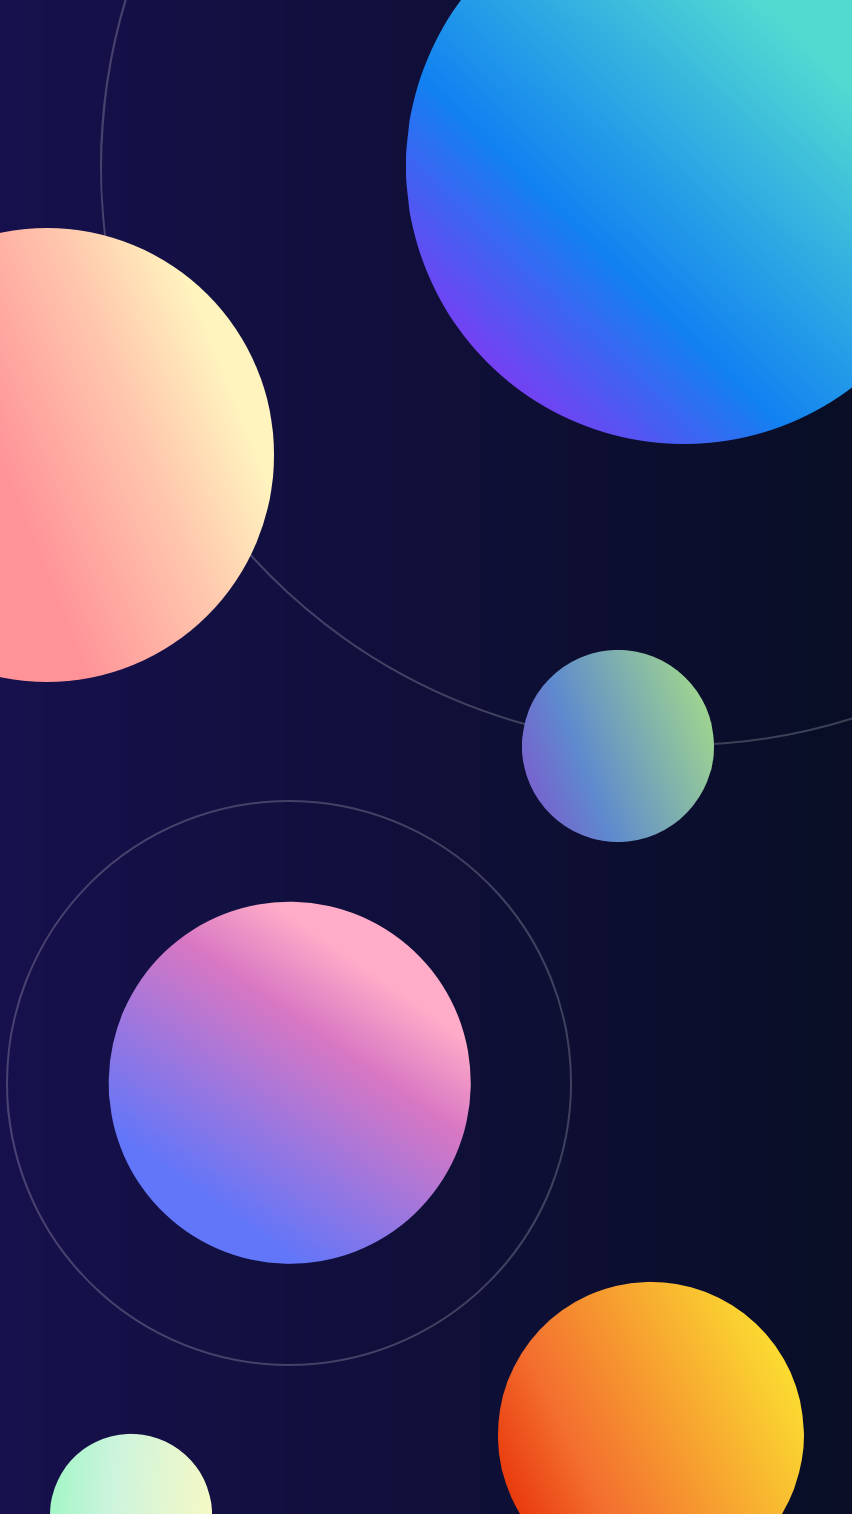
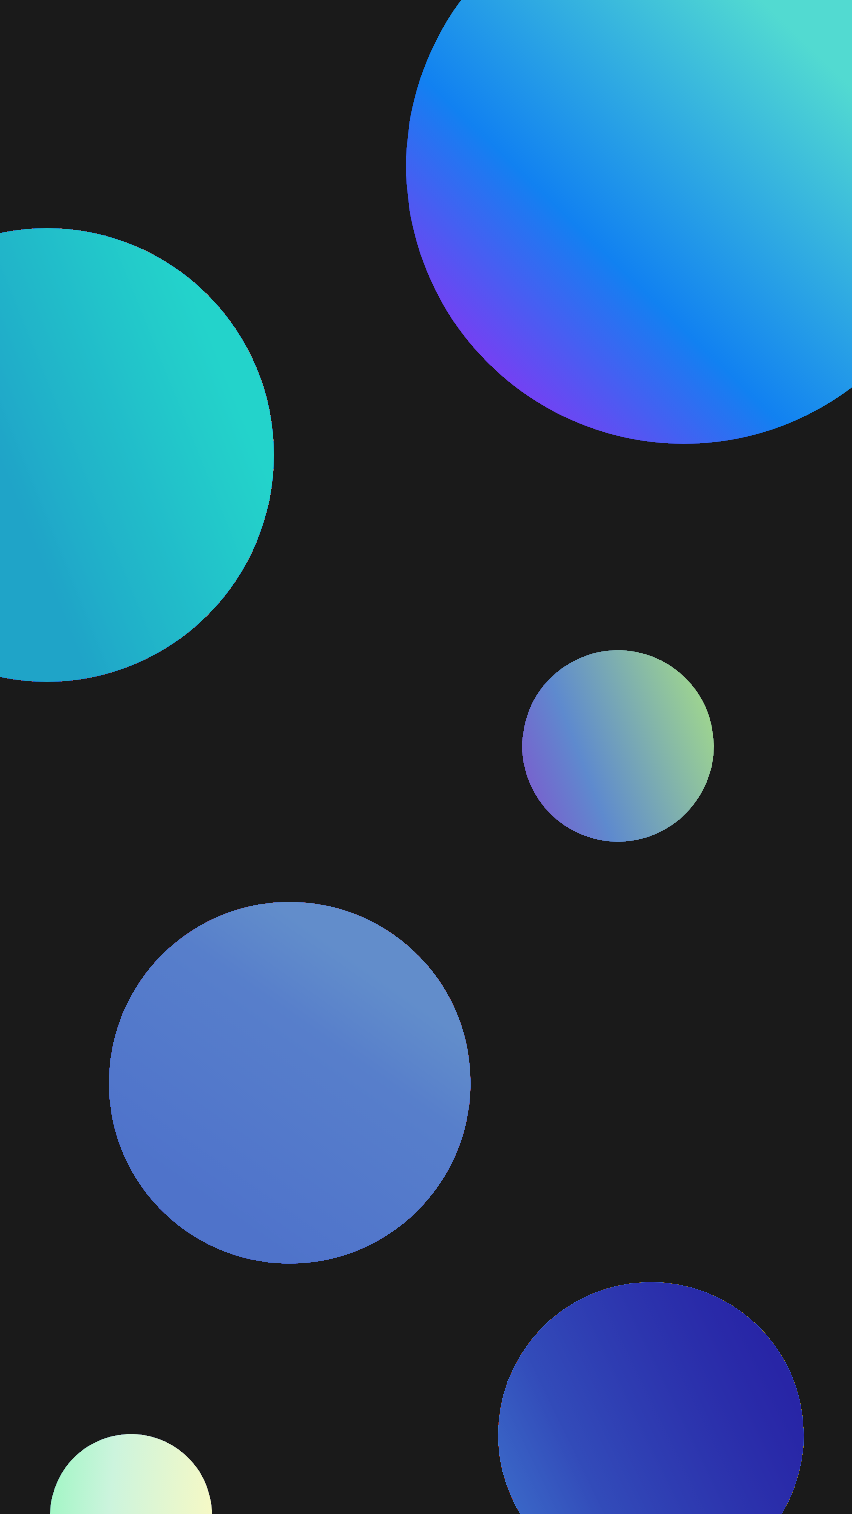
added gradient

diff --git a/lib/pages/games/select_page.dart b/lib/pages/games/select_page.dart
@@ -15,47 +15,59 @@ class SelectPage extends StatefulWidget {
 class _SelectPageState extends State<SelectPage> {
   @override
   Widget build(BuildContext context) {
-    return Column(
-      children: <Widget>[
-        Container(
-          height: 50,
+    return Container(
+        decoration: const BoxDecoration(
+          gradient: LinearGradient(
+            begin: Alignment.topCenter,
+            end: Alignment.bottomCenter,
+            colors: [
+              pLightGreyColour,
+              pGreyColour
+            ], // Add your desired colors here
+            stops: [-0.382, 0.618],
+          ),
         ),
-        Row(
+        child: Column(
           children: <Widget>[
             Container(
-              width: 30,
+              height: 50,
             ),
-            const Text(
-              "GAMES",
-              textAlign: TextAlign.center,
-              style: TextStyle(
-                fontSize: 50,
-                fontFamily: 'LibreFranklin',
-                color: Colors.grey,
+            Row(
+              children: <Widget>[
+                Container(
+                  width: 30,
+                ),
+                const Text(
+                  "Games",
+                  textAlign: TextAlign.center,
+                  style: TextStyle(
+                    fontSize: 50,
+                    fontFamily: 'LibreFranklin',
+                    color: Colors.white,
+                  ),
+                ),
+              ],
+            ),
+            Container(
+              height: 100,
+            ),
+            Center(
+              child: GridView.count(
+                shrinkWrap: true,
+                crossAxisCount: 2,
+                mainAxisSpacing: 16.0,
+                crossAxisSpacing: 16.0,
+                padding: EdgeInsets.all(16.0),
+                children: [
+                  _buildGameElement(Ph.timer, 'Timed'),
+                  _buildGameElement(Ph.speaker_high, 'Spoken'),
+                  _buildGameElement(Ph.users_three, 'Multi'),
+                  // Add more GestureDetector widgets for additional games as needed
+                ],
               ),
-            ),
+            )
           ],
-        ),
-        Container(
-          height: 100,
-        ),
-        Center(
-          child: GridView.count(
-            shrinkWrap: true,
-            crossAxisCount: 2,
-            mainAxisSpacing: 16.0,
-            crossAxisSpacing: 16.0,
-            padding: EdgeInsets.all(16.0),
-            children: [
-              _buildGameElement(Ph.timer, 'Timed'),
-              _buildGameElement(Ph.speaker_high, 'Spoken'),
-              _buildGameElement(Ph.users_three, 'Multi'),
-              // Add more GestureDetector widgets for additional games as needed
-            ],
-          ),
-        )
-      ],
-    );
+        ));
   }
 
   Widget _buildGameElement(String iconName, String gameName) {

diff --git a/lib/pages/stats/stats.dart b/lib/pages/stats/stats.dart
@@ -1,7 +1,10 @@
 import 'package:flutter/material.dart';
 import 'package:glassmorphism/glassmorphism.dart';
+import 'package:line_awesome_flutter/line_awesome_flutter.dart';
 import 'package:percent_indicator/circular_percent_indicator.dart';
+import 'package:pinyinpal/constants/colour.dart';
 import 'package:pinyinpal/models/profilemodel.dart';
+import 'package:pinyinpal/pages/profile/profile.dart';
 import 'package:pinyinpal/widget/piechart.dart';
 
 class UserStats extends StatefulWidget {
@@ -23,15 +26,15 @@ class UserStatsState extends State<UserStats> {
   Widget build(BuildContext context) {
     return SingleChildScrollView(
         child: Container(
-      decoration: BoxDecoration(
-        image: DecorationImage(
-          image: AssetImage("assets/images/back.png"),
-          fit: BoxFit.cover,
-          colorFilter: ColorFilter.mode(
-            Colors.black
-                .withOpacity(0.3), // Adjust the opacity value here (0.0 - 1.0)
-            BlendMode.dstATop,
-          ),
+      decoration: const BoxDecoration(
+        gradient: LinearGradient(
+          begin: Alignment.topCenter,
+          end: Alignment.bottomCenter,
+          colors: [
+            pLightGreyColour,
+            pGreyColour
+          ], // Add your desired colors here
+          stops: [-0.382, 0.618],
         ),
       ),
       child: Column(
@@ -48,13 +51,32 @@ class UserStatsState extends State<UserStats> {
                 width: 30,
               ),
               const Text(
-                "STATS",
+                "Profile",
                 textAlign: TextAlign.center,
                 style: TextStyle(
-                  fontSize: 50,
+                  fontSize: 30,
                   fontFamily: 'LibreFranklin',
-                  color: Colors.grey,
+                  color: Colors.white,
                 ),
+              ),
+              Container(
+                width: 180,
+              ),
+              IconButton(
+                icon: const Icon(
+                  LineAwesomeIcons.bars,
+                  color: Colors.white,
+                  size: 30,
+                ),
+                onPressed: () {
+                  Navigator.push(
+                    context,
+                    MaterialPageRoute(
+                      builder: (context) => ProfilePage(),
+                      //here we pass in the reload page void call back so we can update the collection page
+                    ),
+                  );
+                },
               ),
             ],
           ),
@@ -120,7 +142,7 @@ class UserStatsState extends State<UserStats> {
                     style: const TextStyle(
                       fontSize: 20,
                       fontFamily: 'LibreFranklin',
-                      color: Colors.grey,
+                      color: Colors.white,
                     ),
                   ),
                 ],

diff --git a/lib/constants/themes.dart b/lib/constants/themes.dart
@@ -4,6 +4,9 @@ final ThemeData myTheme = ThemeData(
   primaryColor: const Color(0xFF00CCFF), // Background color
   scaffoldBackgroundColor: const Color(0xFF1A1A1A), // Background color
   fontFamily: 'Roboto',
+  splashColor: Colors.transparent,
+  highlightColor: Colors.transparent,
+  splashFactory: NoSplash.splashFactory,
   textTheme: const TextTheme(
     displayLarge: TextStyle(
       fontSize: 96,
@@ -76,6 +79,7 @@ final ThemeData myTheme = ThemeData(
     foregroundColor: Colors.white, // Text color for app bar
     iconTheme: IconThemeData(color: Colors.white), // Icon color for app bar
   ),
-  colorScheme: ColorScheme.fromSwatch().copyWith(secondary: const Color(0xFF1A1A1A)),
+  colorScheme:
+      ColorScheme.fromSwatch().copyWith(secondary: const Color(0xFF1A1A1A)),
   // Add more theme properties as needed
 );

diff --git a/lib/widget/page_navbar_icons.dart b/lib/widget/page_navbar_icons.dart
@@ -16,12 +16,12 @@ class _BottomNavBarState extends State<BottomNavBar> {
   @override
   Widget build(BuildContext context) {
     return Container(
-      color: pGreyColour,
+      color: Colors.white.withOpacity(0),
       child: Padding(
         padding: const EdgeInsets.symmetric(horizontal: 15.0, vertical: 20),
         child: GNav(
           selectedIndex: widget.startPos,
-          backgroundColor: pGreyColour,
+          backgroundColor: Colors.white.withOpacity(0),
           color: Colors.white,
           activeColor: Colors.lightBlue.withOpacity(0.4),
           tabBackgroundColor: pGreyColour,
